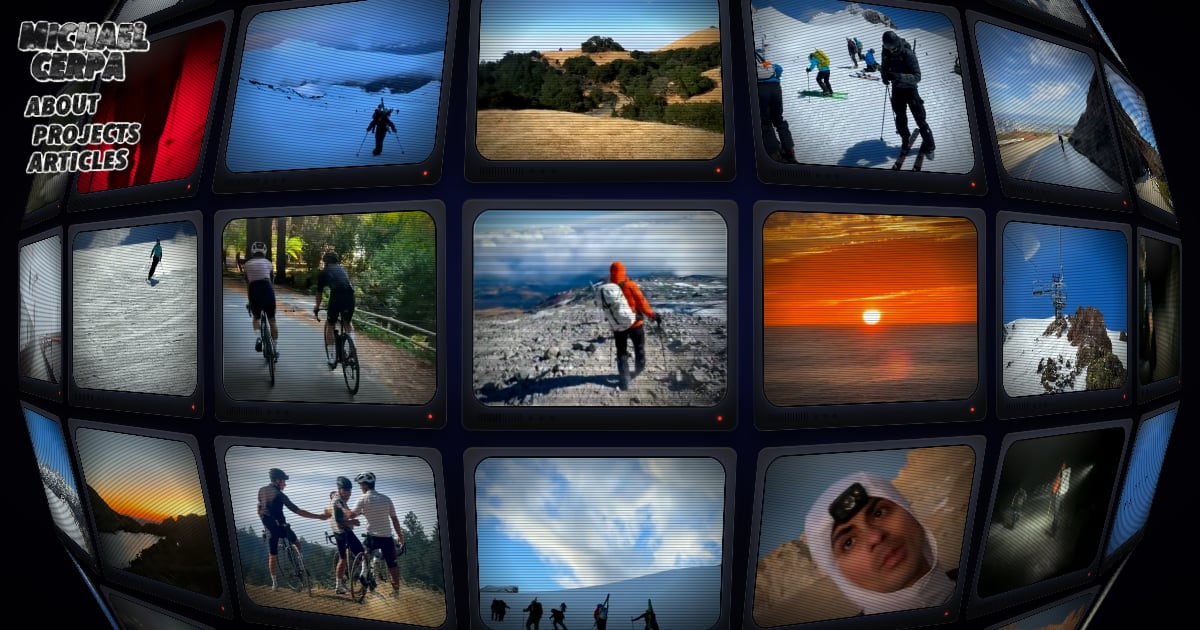
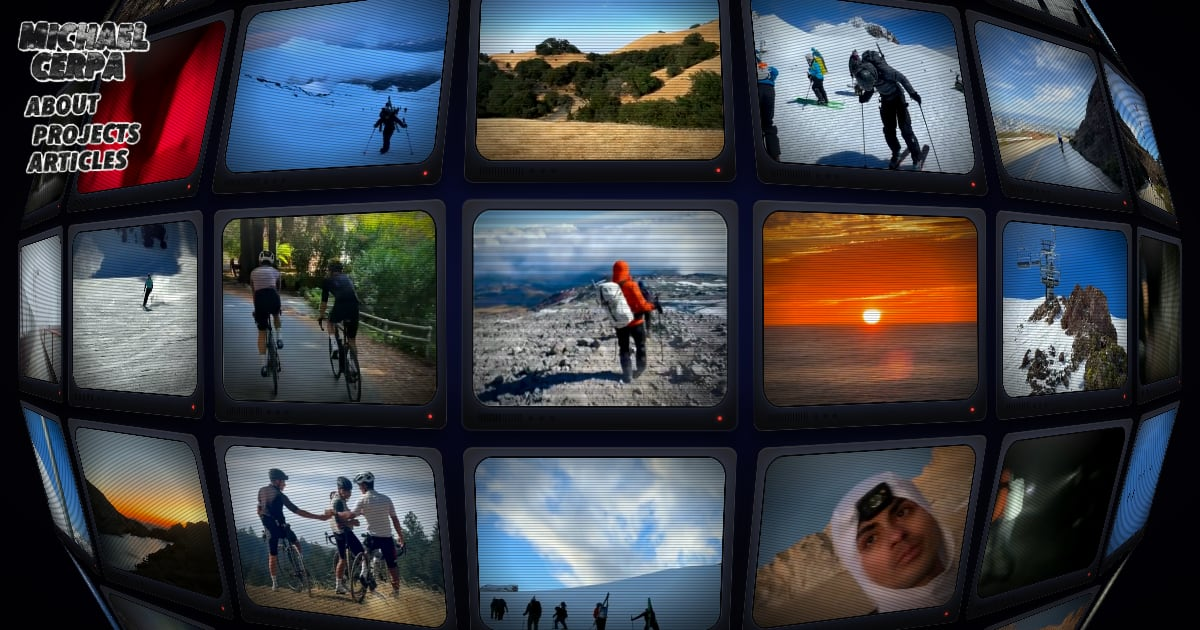
Faster first load; music plays a local file only
- one picture holds every still frame (1 request instead of 51)
- the middle nine clips are fetched first, then outward
- the pages' artwork is fetched after the globe is up
- smaller name image; cache rules for assets and fonts
- music: no streaming preview; the player shows only when a song
  file exists at assets/audio/track.mp3

diff --git a/site.js b/site.js
@@ -41,68 +41,29 @@
   addEventListener('keydown', function (e) { if (e.key === 'Escape') shut(); });
   render();
 
+  // The pages' artwork is not needed to draw the globe, so it is fetched a moment later, once the globe is up.
+  // By the time anyone opens a page it is already there.
+  addEventListener('load', function () { setTimeout(function () { document.querySelectorAll('img[loading="lazy"]').forEach(function (i) { i.loading = 'eager'; }); }, 2500); });
+
   // ---------- music ----------
   // One song. It never starts by itself: browsers only allow sound after a press, and it would be rude anyway.
-  // Where the sound comes from, in order:
-  //   1. a song file at assets/audio/track.mp3 (or track.m4a), if one has been added
-  //   2. otherwise Spotify's own player, kept out of sight and driven by the ink buttons. A visitor who is
-  //      logged in to Spotify hears the whole song; anyone else hears Spotify's 26-second preview.
-  //      Nothing is requested from Spotify until the pointer reaches the player or the screen is touched.
-  // If neither works, the player stays hidden.
-  var TRACK = { files: ['assets/audio/track.mp3', 'assets/audio/track.m4a'], spotify: '4jXl6VtkFFKIt3ycUQc5LT' };   // Circles, Mac Miller
+  // It plays a song file at assets/audio/track.mp3 (or track.m4a). Until that file exists, the player stays hidden.
+  var TRACK = { files: ['assets/audio/track.mp3', 'assets/audio/track.m4a'] };
   (function () {
     var box = document.getElementById('player'), pp = document.getElementById('pp'), stop = document.getElementById('stop'), time = document.getElementById('time');
     if (!box) return;
     var fmt = function (s) { s = Math.floor(s || 0); return Math.floor(s / 60) + ':' + ('0' + (s % 60)).slice(-2); };
-    var pos = 0, dur = 0, playing = false, src = null, kind = 'none';
-    function paint() { time.textContent = fmt(pos) + ' / ' + (dur ? fmt(dur) : '-:--'); box.classList.toggle('is-playing', playing); pp.setAttribute('aria-label', playing ? 'Pause' : 'Play'); }
-    function ready(source, name) { src = source; kind = name; box.hidden = false; paint(); }
-
-    // 1. the file
-    var au = new Audio(), fi = 0;
-    au.preload = 'metadata'; au.loop = true; au.volume = 0.7;
-    au.addEventListener('loadedmetadata', function () {
-      dur = isFinite(au.duration) ? au.duration : 0;
-      ready({ play: function () { var p = au.play(); if (p && p.catch) p.catch(function () {}); }, pause: function () { au.pause(); },
-              stop: function () { au.pause(); try { au.currentTime = 0; } catch (e) {} pos = 0; paint(); } }, 'file');
-    });
-    au.addEventListener('play', function () { playing = true; paint(); });
-    au.addEventListener('pause', function () { playing = false; paint(); });
-    au.addEventListener('timeupdate', function () { pos = au.currentTime; paint(); });
-    au.addEventListener('error', function () { if (++fi < TRACK.files.length) au.src = TRACK.files[fi]; else if (TRACK.spotify) spotify(); });
-    au.src = TRACK.files[0];
-
-    // 2. Spotify
-    function spotify() {
-      var ctl = null, wanted = false, loading = false, begun = false;
-      box.insertAdjacentHTML('beforeend', '<a class="player__via" href="https://open.spotify.com/track/' + TRACK.spotify + '" target="_blank" rel="noopener">on Spotify</a>');
-      function load() {
-        if (loading) return; loading = true;
-        var holder = document.createElement('div'); holder.className = 'player__embed'; holder.setAttribute('aria-hidden', 'true');
-        holder.appendChild(document.createElement('div')); document.body.appendChild(holder);
-        window.onSpotifyIframeApiReady = function (API) {
-          API.createController(holder.firstChild, { uri: 'spotify:track:' + TRACK.spotify, width: 320, height: 152 }, function (c) {
-            c.addListener('ready', function () { ctl = c; if (wanted) { begun = true; c.play(); } });
-            c.addListener('playback_update', function (e) {
-              var d = e.data || {}; dur = (d.duration || 0) / 1000; if (wanted) pos = (d.position || 0) / 1000; playing = !d.isPaused && wanted; paint();
-            });
-          });
-        };
-        var s = document.createElement('script'); s.src = 'https://open.spotify.com/embed/iframe-api/v1'; s.async = true;
-        s.onerror = function () { box.hidden = true; };          // Spotify unreachable: no player
-        document.head.appendChild(s);
-      }
-      // get Spotify's player ready just before it is needed, so the first press starts the song
-      box.addEventListener('pointerenter', load);
-      addEventListener('touchstart', load, { once: true, passive: true });
-      pp.addEventListener('focus', load);
-      ready({ play: function () { wanted = true; if (!ctl) return load(); if (begun) ctl.resume(); else { begun = true; ctl.play(); } },   // resume carries on from where it was paused
-              pause: function () { wanted = false; if (ctl) ctl.pause(); },
-              stop: function () { wanted = false; begun = false; if (ctl) ctl.pause(); pos = 0; playing = false; paint(); } }, 'spotify');
+    var au = new Audio(), fi = 0, ready = false;
+    function paint() {
+      time.textContent = fmt(au.currentTime) + ' / ' + (isFinite(au.duration) && au.duration ? fmt(au.duration) : '-:--');
+      box.classList.toggle('is-playing', !au.paused); pp.setAttribute('aria-label', au.paused ? 'Play' : 'Pause');
     }
-
-    pp.addEventListener('click', function () { if (!src) return; if (playing) src.pause(); else src.play(); });
-    stop.addEventListener('click', function () { if (src) src.stop(); });
-    window.TVMUSIC = { state: function () { return { playing: playing, pos: +pos.toFixed(1), dur: +dur.toFixed(1), source: kind, shown: !box.hidden }; } };
+    au.preload = 'metadata'; au.loop = true; au.volume = 0.7;
+    au.addEventListener('loadedmetadata', function () { ready = true; box.hidden = false; paint(); });
+    ['play', 'pause', 'timeupdate'].forEach(function (ev) { au.addEventListener(ev, paint); });
+    au.addEventListener('error', function () { if (++fi < TRACK.files.length) au.src = TRACK.files[fi]; });   // no file: the player stays hidden
+    au.src = TRACK.files[0];
+    pp.addEventListener('click', function () { if (!ready) return; if (au.paused) { var p = au.play(); if (p && p.catch) p.catch(function () {}); } else au.pause(); });
+    stop.addEventListener('click', function () { if (!ready) return; au.pause(); try { au.currentTime = 0; } catch (e) {} paint(); });
   })();
 })();

diff --git a/index.html b/index.html
@@ -25,6 +25,8 @@
 
   <link rel="preload" href="fonts/SpaceGrotesk-var.woff2" as="font" type="font/woff2" crossorigin>
   <link rel="preload" href="assets/art/name.webp" as="image">
+  <link rel="preload" href="assets/tv/posters.jpg" as="image" media="(min-width: 760px)">
+  <link rel="preload" href="assets/tv/posters-s.jpg" as="image" media="(max-width: 759px)">
   <link rel="stylesheet" href="styles.css">
   <script>document.documentElement.className = 'js';</script>
 </head>
@@ -38,7 +40,7 @@
 
 <!-- The lettering is ink artwork (drawn from my own photos). The real words are in each image's alt text. -->
 <header class="hud">
-  <h1 class="id"><a href="#" data-home><img src="assets/art/name.webp" alt="Michael Cerpa" width="1288" height="690"></a></h1>
+  <h1 class="id"><a href="#" data-home><img src="assets/art/name.webp" alt="Michael Cerpa" width="485" height="260"></a></h1>
   <nav class="menu" aria-label="Sections">
     <a href="#about" data-go="about"><img src="assets/art/menu-about.webp" alt="About" width="350" height="141"></a>
     <a href="#projects" data-go="projects"><img src="assets/art/menu-projects.webp" alt="Projects" width="491" height="141"></a>
@@ -48,12 +50,12 @@
 
 <!-- The three pages. Each opens as one sheet of drawing paper with the inked mountain on it. -->
 <main id="panel" class="panel sheet">
-  <button type="button" class="panel__close" aria-label="Close"><img src="assets/art/close.webp" alt="" width="79" height="104"></button>
+  <button type="button" class="panel__close" aria-label="Close"><img loading="lazy" src="assets/art/close.webp" alt="" width="79" height="104"></button>
   <div class="mt" aria-hidden="true"><img class="mt__peak" src="assets/art/peak-sheet.webp" alt="" width="960" height="1280" loading="lazy"></div>
 
   <div class="panel__scroll">
     <section id="about" data-panel="about">
-      <p class="hi"><img src="assets/art/hi.webp" alt="Hi, I'm Michael." width="915" height="173"></p>
+      <p class="hi"><img loading="lazy" src="assets/art/hi.webp" alt="Hi, I'm Michael." width="915" height="173"></p>
       <p>I'm a product manager at Pallet. We build AI agents for companies that make and move things.</p>
       <p>Off the clock, usually at altitude.</p>
       <p class="reach">
@@ -63,43 +65,43 @@
     </section>
 
     <section id="projects" data-panel="projects">
-      <h2><img src="assets/art/h-projects.webp" alt="Projects" width="707" height="216"></h2>
+      <h2><img loading="lazy" src="assets/art/h-projects.webp" alt="Projects" width="707" height="216"></h2>
       <div class="proj">
-        <a class="proj__name" href="/granite/"><img src="assets/art/p-granite.webp" alt="Granite" width="394" height="124"></a>
+        <a class="proj__name" href="/granite/"><img loading="lazy" src="assets/art/p-granite.webp" alt="Granite" width="394" height="124"></a>
         <p>An architecture for AI in spaces where a wrong answer is worse than no answer.</p>
       </div>
       <div class="proj">
-        <a class="proj__name" href="/strata/"><img src="assets/art/p-strata.webp" alt="Strata" width="348" height="124"></a>
+        <a class="proj__name" href="/strata/"><img loading="lazy" src="assets/art/p-strata.webp" alt="Strata" width="348" height="124"></a>
         <p>It reads the mess, writes the structured record, and asks a human only when it isn't sure.</p>
       </div>
       <div class="proj">
-        <a class="proj__name" href="/cairn/"><img src="assets/art/p-cairn.webp" alt="Cairn" width="296" height="124"></a>
+        <a class="proj__name" href="/cairn/"><img loading="lazy" src="assets/art/p-cairn.webp" alt="Cairn" width="296" height="124"></a>
         <p>Sierra trip planning. This one tells you whether you can still get a permit.</p>
       </div>
       <div class="proj">
-        <a class="proj__name" href="/bus/"><img src="assets/art/p-commute.webp" alt="Commute" width="456" height="124"></a>
+        <a class="proj__name" href="/bus/"><img loading="lazy" src="assets/art/p-commute.webp" alt="Commute" width="456" height="124"></a>
         <p>Live trackers for my commutes: <a href="/bus/">Golden Gate Transit</a> and <a href="/presidio/">Presidio GO</a>.</p>
       </div>
     </section>
 
     <section id="articles" data-panel="articles">
-      <h2><img src="assets/art/h-articles.webp" alt="Articles" width="662" height="216"></h2>
+      <h2><img loading="lazy" src="assets/art/h-articles.webp" alt="Articles" width="662" height="216"></h2>
       <!-- Articles go here, newest first. Until the first one exists this line stays. -->
       <p>Nothing yet.</p>
     </section>
   </div>
 </main>
 
-<!-- Music. Stays hidden unless there is something to play (see site.js). It never starts by itself. -->
+<!-- Music. Hidden until a song file exists at assets/audio/track.mp3 (see site.js). It never starts by itself. -->
 <aside class="player" id="player" aria-label="Music" hidden>
   <button type="button" class="player__btn" id="pp" aria-label="Play">
-    <img class="ic-play" src="assets/art/play.webp" alt="" width="106" height="106">
-    <img class="ic-pause" src="assets/art/pause.webp" alt="" width="106" height="106">
+    <img loading="lazy" class="ic-play" src="assets/art/play.webp" alt="" width="106" height="106">
+    <img loading="lazy" class="ic-pause" src="assets/art/pause.webp" alt="" width="106" height="106">
   </button>
-  <button type="button" class="player__btn" id="stop" aria-label="Stop"><img src="assets/art/stop.webp" alt="" width="106" height="106"></button>
+  <button type="button" class="player__btn" id="stop" aria-label="Stop"><img loading="lazy" src="assets/art/stop.webp" alt="" width="106" height="106"></button>
   <div class="player__meta">
-    <b><img src="assets/art/track.webp" alt="Circles" width="239" height="89"></b>
-    <span><img src="assets/art/artist.webp" alt="Mac Miller" width="263" height="58"></span>
+    <b><img loading="lazy" src="assets/art/track.webp" alt="Circles" width="239" height="89"></b>
+    <span><img loading="lazy" src="assets/art/artist.webp" alt="Mac Miller" width="263" height="58"></span>
   </div>
   <span class="player__time" id="time">0:00 / -:--</span>
 </aside>

diff --git a/wall.js b/wall.js
@@ -48,12 +48,17 @@
 
   // Phones get lighter copies of the clips (240x184 at 15 frames a second), in assets/tv/s/.
   var SMALL = Math.min(innerWidth, innerHeight) < 600 || (navigator.maxTouchPoints > 1 && Math.min(screen.width, screen.height) < 600);
+  // The still frame of every clip is packed into one picture (tools/make-posters.mjs in the mock-up folder),
+  // tiles in alphabetical order, nine across. One request shows the whole globe before any video arrives.
+  var ORDER = cells.map(function (c) { return c.clip; }).sort(), COLS = 9, PROWS = Math.ceil(ORDER.length / COLS);
+  root.style.setProperty('--posters', 'url(assets/tv/posters' + (innerWidth < 760 ? '-s' : '') + '.jpg)');
   var html = '';
   cells.forEach(function (c, i) {
+    var n = ORDER.indexOf(c.clip), px = (n % COLS) / (COLS - 1) * 100, py = Math.floor(n / COLS) / (PROWS - 1) * 100;
     var ring = c.away < 21 ? 1 : c.away < 36 ? 2 : 3;
     // --a / --b: where the set sits on the globe.  --z / --k: a trace of unevenness, like sets stacked by hand.
     html += '<div class="tv" style="--a:' + c.lon.toFixed(2) + 'deg;--b:' + c.lat.toFixed(1) + 'deg;--z:' + ((((i * 37) % 9) - 4) * 0.12).toFixed(2) + 'deg;--k:' + (0.958 + ((i * 53) % 4) * 0.004).toFixed(3) + '">' +
-      '<div class="set"><span class="tube" style="background-image:url(assets/tv/' + c.clip + '.jpg)">' +
+      '<div class="set"><span class="tube" style="background-position:' + px.toFixed(2) + '% ' + py.toFixed(2) + '%">' +
       '<video muted loop playsinline preload="none" data-src="assets/tv/' + (SMALL ? 's/' : '') + c.clip + '.mp4" data-ring="' + ring + '" data-d="' + c.away.toFixed(1) + '"></video></span>' +
       '<span class="deck"><b></b><i></i><i></i><i></i><i class="led"></i></span></div></div>';
   });
@@ -77,6 +82,7 @@
   var panel = document.getElementById('panel');
   var maxRing = 3;            // 3 = every screen, 2 = the outer ring shows stills, 1 = only the middle nine play
   var refused = false;        // the browser said no to auto-play (Low Power Mode, strict settings)
+  var ramp = 9;               // how many clips may be fetched so far: the middle nine first, then outward a few at a time
 
   function tune() {
     if (still) return;
@@ -96,10 +102,12 @@
       shown.sort(function (a, b) { return b[1] - a[1]; });
       shown.splice(cap).forEach(function (x) { if (!x[0].paused) x[0].pause(); });
     }
+    var fetched = vids.filter(function (v) { return v.getAttribute('src'); }).length;
+    shown.sort(function (a, b) { return a[0].dataset.d - b[0].dataset.d; });      // nearest the middle first
     shown.forEach(function (x) {
       var v = x[0];
       if (refused) return;
-      if (!v.getAttribute('src')) v.setAttribute('src', v.dataset.src);
+      if (!v.getAttribute('src')) { if (fetched >= ramp) return; fetched++; v.setAttribute('src', v.dataset.src); }
       v.muted = true;
       if (v.paused) {
         var p = v.play();
@@ -114,6 +122,7 @@
   document.addEventListener('visibilitychange', tune);
   document.addEventListener('sheet:change', function () { setTimeout(tune, 30); });
   tune();
+  var rampTimer = setInterval(function () { ramp += 8; tune(); if (ramp > 60) clearInterval(rampTimer); }, 260);
 
   // Watchdog: for the first few seconds, watch for dropped video frames and slow screen updates.
   // If the device is struggling, drop the outer ring of screens to stills, then the next ring.

diff --git a/styles.css b/styles.css
@@ -40,7 +40,7 @@ img { display: block; user-select: none; -webkit-user-drag: none; }
 .set { position: absolute; inset: 6px; display: flex; flex-direction: column; padding: 18px 18px 0; border: 1px solid #303036; border-radius: 16px;
   background: linear-gradient(180deg, #26262b 0%, #141417 55%, #0a0a0c 100%);
   box-shadow: inset 0 2px 0 rgb(255 255 255 / .07), 0 14px 30px rgb(0 0 0 / .6); }
-.tube { position: relative; flex: 1; min-height: 0; border-radius: 30px / 34px; overflow: hidden; background: #050508 center / cover no-repeat;
+.tube { position: relative; flex: 1; min-height: 0; border-radius: 30px / 34px; overflow: hidden; background: #050508 var(--posters) no-repeat; background-size: 900% 600%;   /* one picture holds every still: 9 across, 6 down */
   box-shadow: 0 0 0 3px #060608, 0 0 0 4px #34343a, 0 0 34px rgb(110 150 255 / .28); }
 .tube video { position: absolute; inset: 0; width: 100%; height: 100%; object-fit: cover; display: block; }
 /* glass: a soft highlight, scan lines, dark corners. One static layer per screen. */
@@ -90,12 +90,8 @@ img { display: block; user-select: none; -webkit-user-drag: none; }
 .player__meta b img { height: 21px; width: auto; }
 .player__meta span { display: block; margin-top: -5px; }
 .player__meta span img { height: 15px; width: auto; }
-.player__time, .player__via { grid-row: 2; margin-top: -3px; font: 700 10.5px/1 var(--f-body); letter-spacing: .04em; white-space: nowrap; font-variant-numeric: tabular-nums; color: var(--ink); text-shadow: var(--halo); }
+.player__time { grid-row: 2; margin-top: -3px; font: 700 10.5px/1 var(--f-body); letter-spacing: .04em; white-space: nowrap; font-variant-numeric: tabular-nums; color: var(--ink); text-shadow: var(--halo); }
 .player__time { grid-column: 3; justify-self: end; margin-right: 5px; }
-.player__via { grid-column: 1 / -1; grid-row: 3; justify-self: end; margin: 3px 5px 0 0; text-decoration: none; text-transform: uppercase; font-size: 9.5px; letter-spacing: .08em; }
-.player__via:hover { text-decoration: underline; }
-/* Spotify's own player: inside the page but out of sight (it will not start if it is moved off screen) */
-.player__embed { position: fixed; right: 0; bottom: 0; width: 320px; height: 152px; opacity: 0; pointer-events: none; z-index: -1; }
 
 /* ---------- the three pages: one sheet of drawing paper with the inked mountain on it ---------- */
 .panel { --mh: 92vh; position: fixed; z-index: 20; top: 4vh; bottom: 4vh; right: 3vw; width: min(1000px, 68vw); overflow: hidden; overflow: clip; color: var(--ink);

diff --git a/README.md b/README.md
@@ -4,7 +4,7 @@ My personal site. **Live:** https://mcerpa.com
 
 ## What this is
 
-One screen. A wall of old tube TVs fills the window. Each screen plays a short clip of mine:
+One screen. A globe of old tube TVs fills the window. Each screen plays a short clip of mine:
 climbing, skiing, riding, running. In front of the wall are my name, three words, and a small
 music player, all drawn in ink. A word opens one sheet of drawing paper.
 
@@ -22,9 +22,9 @@ Plain HTML, CSS, and JavaScript. No framework, no build step, no npm dependencie
 |------|-----|
 | `index.html` | The whole page, written by hand. All the words are here |
 | `styles.css` | All styling for the home page |
-| `wall.js` | Builds the 49 screens, bends them into the wide-lens bulge, and plays the clips |
+| `wall.js` | Builds the 51 screens on the front of a globe and plays the clips |
 | `site.js` | Opens and closes the three pages. Runs the music player |
-| `assets/tv/` | The clips: 49 short silent loops, a still frame for each, and smaller copies for phones in `s/` |
+| `assets/tv/` | The clips: 51 short silent loops, smaller copies for phones in `s/`, and one picture holding every still frame |
 | `assets/art/` | The ink lettering and the mountain, drawn from my own photos |
 | `fonts/` | Self-hosted fonts. No third-party font requests |
 | `vercel.json` | Rewrites that serve each project's separate deploy under this domain |
@@ -35,7 +35,8 @@ Plain HTML, CSS, and JavaScript. No framework, no build step, no npm dependencie
 ## Keeping it light
 
 - A screen plays only while it is inside the window and not behind an open page.
-- Phones load smaller copies of the clips and play at most 22 at once.
+- The still frames for the whole globe arrive in one picture, and the middle screens start first.
+- Phones load smaller copies of the clips and play at most 25 at once.
 - If a device drops frames, the outer screens fall back to still pictures.
 - Visitors who ask for reduced motion get still pictures.
 - With JavaScript off there is no wall, but every word is still readable.
